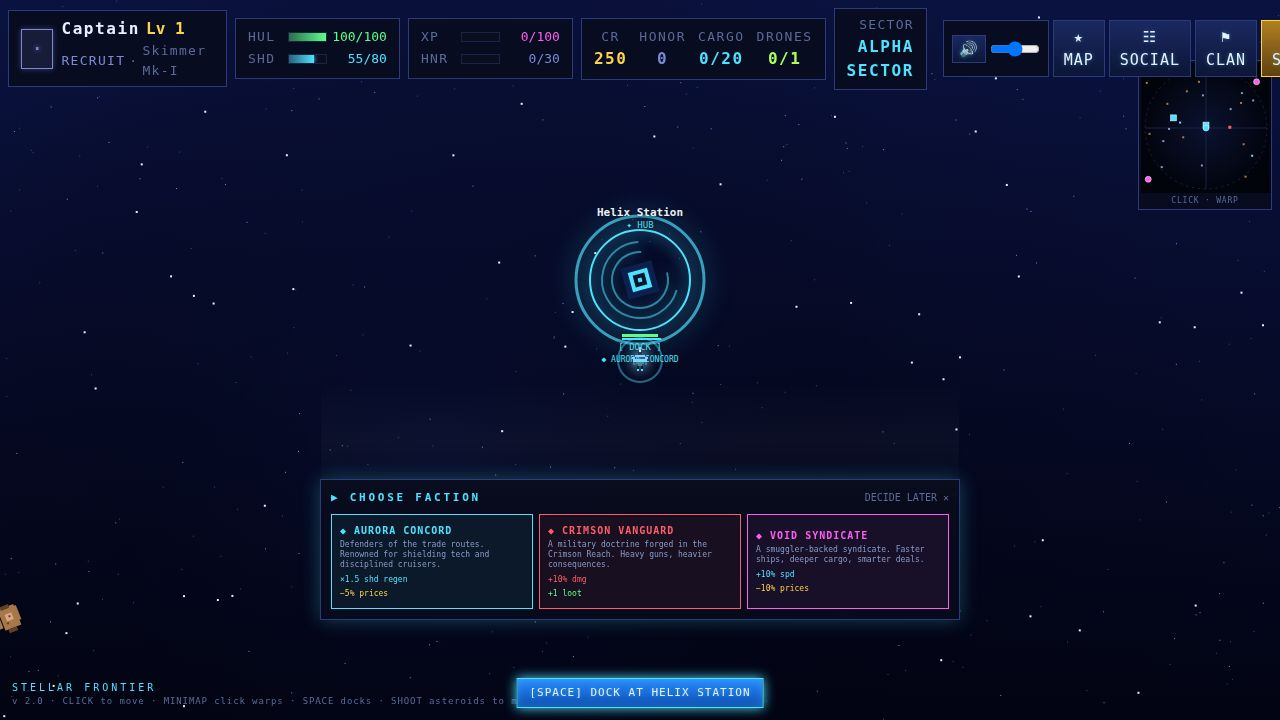
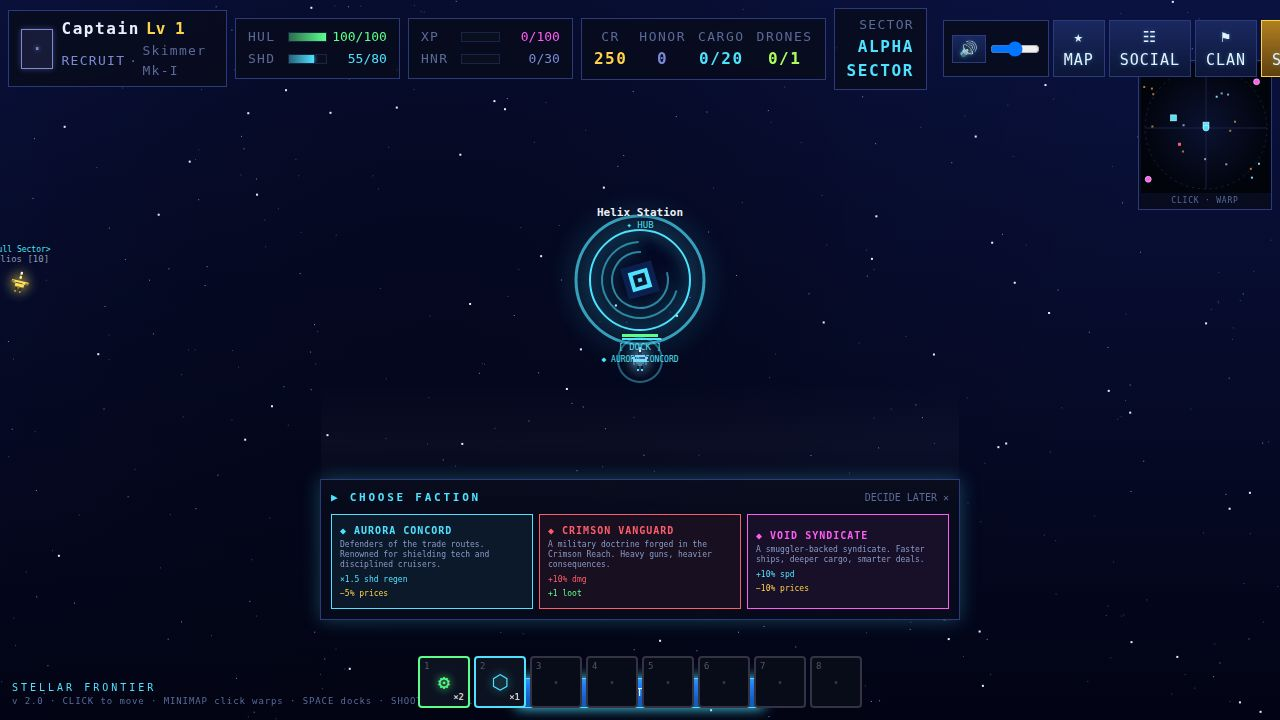
Add 4 new high-tier dungeons for Forge, Corona, Fracture, and Abyss zones
## Task
Add dungeon/rift content for the 4 high-tier zones (Forge/Corona/Fracture/Abyss,
tiers 5–8) that had no raid content. Players who reached those zones had nothing
to run.

## Changes

### artifacts/stellar-frontier/src/game/types.ts
- Extended DungeonId union type: forge-rift | corona-rift | fracture-rift | abyss-rift
- Added 4 new DungeonDef entries to the DUNGEONS record:

  forge-rift "Iron Crucible" (Forge, lv18, 5 waves ×6, destroyer+dread)
    hpMul 2.4 / dmgMul 2.0 — 65k cr / 18k xp

  corona-rift "Solar Pyre" (Corona, lv22, 5 waves ×7, voidling+dread)
    hpMul 2.7 / dmgMul 2.3 — 100k cr / 28k xp

  fracture-rift "Fracture Void" (Fracture, lv27, 6 waves ×7, voidling+dread)
    hpMul 3.0 / dmgMul 2.6 — 175k cr / 50k xp

  abyss-rift "The Dread Abyss" (Abyss, lv32, 7 waves ×8, dread only)
    hpMul 3.6 / dmgMul 3.0 — 300k cr / 85k xp — legendary-only reward pool

- Reward module pools biased toward late-game epics/legendaries:
  void-lance, hellfire, phase-drive, leviathan core, singularity field,
  voidframe stabilizer, singular driver, sniper, torpedo, etc.

### artifacts/stellar-frontier/src/components/MiniMap.tsx
- Imported DUNGEONS
- Added dungeon rift markers as colored diamond polygons (edge-clamped like
  portals) so all 8 dungeon rifts appear on the SVG minimap for their zone

## Notes
No changes were needed in store.ts, Hangar.tsx, or render.ts — those files
already iterate Object.values(DUNGEONS) dynamically so new entries appear
[…]

Changed region(s): [[0.3125, 0.8861, 0.6562, 1.0], [0.0, 0.3361, 0.0312, 0.4278], [0.0, 0.825, 0.0312, 0.8861]]

diff --git a/artifacts/stellar-frontier/src/game/types.ts b/artifacts/stellar-frontier/src/game/types.ts
@@ -945,7 +945,7 @@ export function moduleDef(idOrItem: string | ModuleItem): ModuleDef {
 }
 
 // ── DUNGEONS ──────────────────────────────────────────────────────────────
-export type DungeonId = "alpha-rift" | "nebula-rift" | "crimson-rift" | "void-rift";
+export type DungeonId = "alpha-rift" | "nebula-rift" | "crimson-rift" | "void-rift" | "forge-rift" | "corona-rift" | "fracture-rift" | "abyss-rift";
 
 export type DungeonDef = {
   id: DungeonId;
@@ -1006,6 +1006,46 @@ export const DUNGEONS: Record<DungeonId, DungeonDef> = {
     rewardModules: ["wp-singular", "wp-sniper", "wp-void-lance", "wp-hellfire", "md-voidframe", "md-singularity", "gn-quantum", "gn-phase-drive", "gn-leviathan", "wp-solar"],
     rewardMaterials: [{ resourceId: "void", qty: 8 }, { resourceId: "dread", qty: 5 }, { resourceId: "quantum", qty: 8 }],
     color: "#b06cff", unlockLevel: 15,
+  },
+  "forge-rift": {
+    id: "forge-rift", name: "Iron Crucible", zone: "forge", pos: { x: -1300, y: -900 },
+    description: "Ancient automated warships guard a scorching foundry. Bring heavy armor — they hit back hard.",
+    enemyTypes: ["destroyer", "dread"], enemyHpMul: 2.4, enemyDmgMul: 2.0,
+    waves: 5, enemiesPerWave: 6,
+    rewardCredits: 65000, rewardExp: 18000,
+    rewardModules: ["wp-void-lance", "wp-hellfire", "wp-torpedo", "wp-solar", "gn-phase-drive", "gn-leviathan", "gn-quantum", "md-heavy-armor", "md-overcharge", "md-voidframe", "md-singularity"],
+    rewardMaterials: [{ resourceId: "dread", qty: 6 }, { resourceId: "quantum", qty: 8 }, { resourceId: "void", qty: 5 }],
+    color: "#ff8a4e", unlockLevel: 18,
+  },
+  "corona-rift": {
+    id: "corona-rift", name: "Solar Pyre", zone: "corona", pos: { x: -1500, y: 800 },
+    description: "Reality-bent hunters swarming a dying star's corona. Voidlings and Dreads orbit the plasma jets.",
+    enemyTypes: ["voidling", "dread"], enemyHpMul: 2.7, enemyDmgMul: 2.3,
+    waves: 5, enemiesPerWave: 7,
+    rewardCredits: 100000, rewardExp: 28000,
+    rewardModules: ["wp-void-lance", "wp-singular", "wp-hellfire", "wp-sniper", "gn-leviathan", "gn-phase-drive", "md-singularity", "md-voidframe", "md-targeter-2", "md-overclock"],
+    rewardMaterials: [{ resourceId: "void", qty: 10 }, { resourceId: "dread", qty: 7 }, { resourceId: "quantum", qty: 10 }],
+    color: "#ffd24a", unlockLevel: 22,
+  },
+  "fracture-rift": {
+    id: "fracture-rift", name: "Fracture Void", zone: "fracture", pos: { x: 1200, y: 1000 },
+    description: "Spacetime tears unleash interdimensional horrors. Six waves of Dread-class threats await the reckless.",
+    enemyTypes: ["voidling", "dread"], enemyHpMul: 3.0, enemyDmgMul: 2.6,
+    waves: 6, enemiesPerWave: 7,
+    rewardCredits: 175000, rewardExp: 50000,
+    rewardModules: ["wp-singular", "wp-void-lance", "wp-hellfire", "gn-leviathan", "gn-phase-drive", "md-singularity", "md-voidframe", "md-heavy-armor", "md-loot-2"],
+    rewardMaterials: [{ resourceId: "void", qty: 14 }, { resourceId: "dread", qty: 10 }, { resourceId: "quantum", qty: 14 }],
+    color: "#b06cff", unlockLevel: 27,
+  },
+  "abyss-rift": {
+    id: "abyss-rift", name: "The Dread Abyss", zone: "abyss", pos: { x: 1300, y: -1000 },
+    description: "Pure endgame. Seven brutal waves of Dreadnoughts in the darkest reach of known space. Legendary drops only.",
+    enemyTypes: ["dread"], enemyHpMul: 3.6, enemyDmgMul: 3.0,
+    waves: 7, enemiesPerWave: 8,
+    rewardCredits: 300000, rewardExp: 85000,
+    rewardModules: ["wp-singular", "wp-void-lance", "wp-hellfire", "gn-leviathan", "gn-phase-drive", "md-singularity", "md-voidframe"],
+    rewardMaterials: [{ resourceId: "void", qty: 20 }, { resourceId: "dread", qty: 15 }, { resourceId: "quantum", qty: 18 }],
+    color: "#ff5c6c", unlockLevel: 32,
   },
 };
 

diff --git a/artifacts/stellar-frontier/src/components/MiniMap.tsx b/artifacts/stellar-frontier/src/components/MiniMap.tsx
@@ -1,5 +1,5 @@
 import { useGame, state, bump } from "../game/store";
-import { STATIONS, PORTALS } from "../game/types";
+import { DUNGEONS, STATIONS, PORTALS } from "../game/types";
 
 const SIZE = 130;
 const RANGE = 1800;
@@ -82,6 +82,25 @@ export function MiniMap() {
           const cx = Math.max(6, Math.min(SIZE - 6, x));
           const cy = Math.max(6, Math.min(SIZE - 6, y));
           return <circle key={p.id} cx={cx} cy={cy} r={inside ? 3 : 2} fill="#ff5cf0" stroke={inside ? "#fff" : "none"} strokeWidth={0.5} />;
+        })}
+
+        {/* Dungeon rifts */}
+        {Object.values(DUNGEONS).filter((d) => d.zone === player.zone).map((d) => {
+          const x = SIZE / 2 + (d.pos.x - player.pos.x) * scale;
+          const y = SIZE / 2 + (d.pos.y - player.pos.y) * scale;
+          const cx = Math.max(6, Math.min(SIZE - 6, x));
+          const cy = Math.max(6, Math.min(SIZE - 6, y));
+          const inside = !(x < 0 || x > SIZE || y < 0 || y > SIZE);
+          return (
+            <polygon
+              key={d.id}
+              points={`${cx},${cy - 4} ${cx + 4},${cy} ${cx},${cy + 4} ${cx - 4},${cy}`}
+              fill={d.color}
+              stroke={inside ? "#fff" : "none"}
+              strokeWidth={0.5}
+              opacity={0.9}
+            />
+          );
         })}
 
         {/* Others */}
